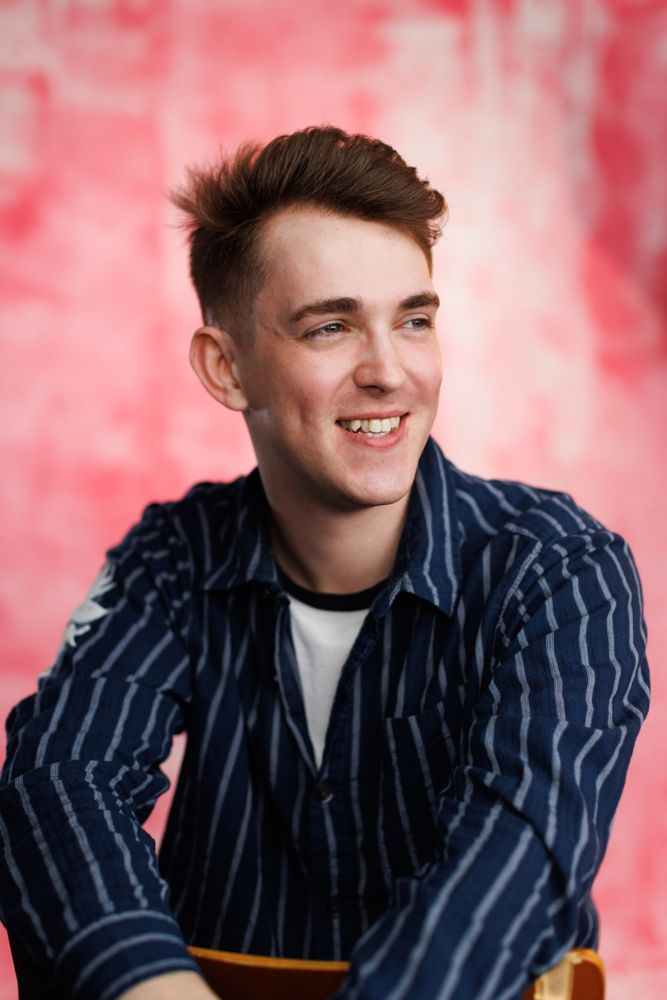
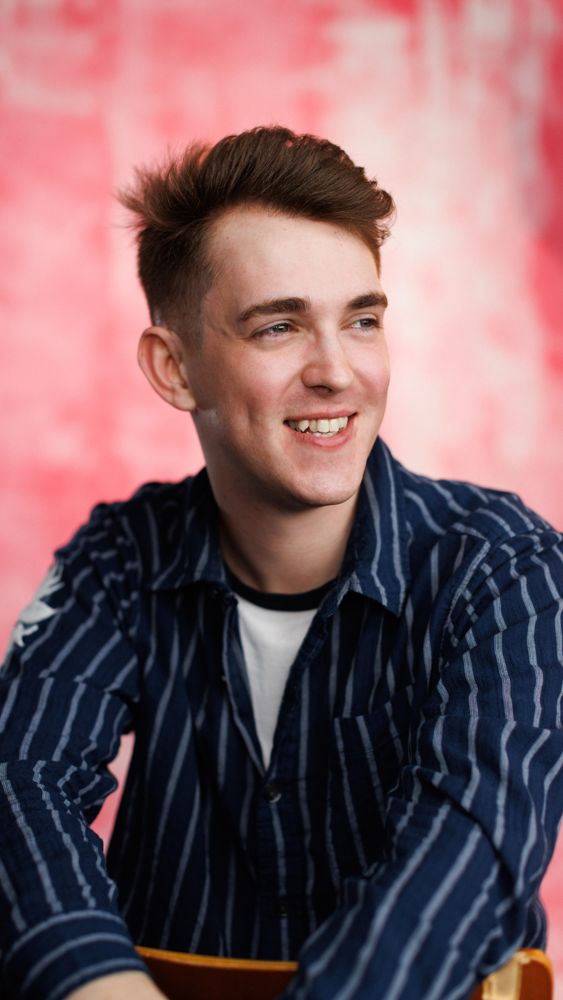
update headshot

diff --git a/styles.css b/styles.css
@@ -385,7 +385,7 @@ p {
   display: flex;
   flex-direction: column;
   align-items: center;
-  padding: 10px 5%;
+  margin-top: -5px;
 }
 
 #awards,
@@ -396,7 +396,7 @@ p {
 }
 
 #awards p {
-  padding: 0px;
+  padding: 10px 5%;
   margin: 10px 0px;
 }
 
@@ -404,6 +404,15 @@ p {
   width: 100%;
   max-width: 400px;
   margin: 10px 0px;
+}
+
+@media screen and (max-width: 800px) {
+  #awards img {
+    max-width: 500px;
+    margin: 0px;
+    aspect-ratio: 3/4;
+    object-fit: cover;
+  }
 }
 
 ul {
